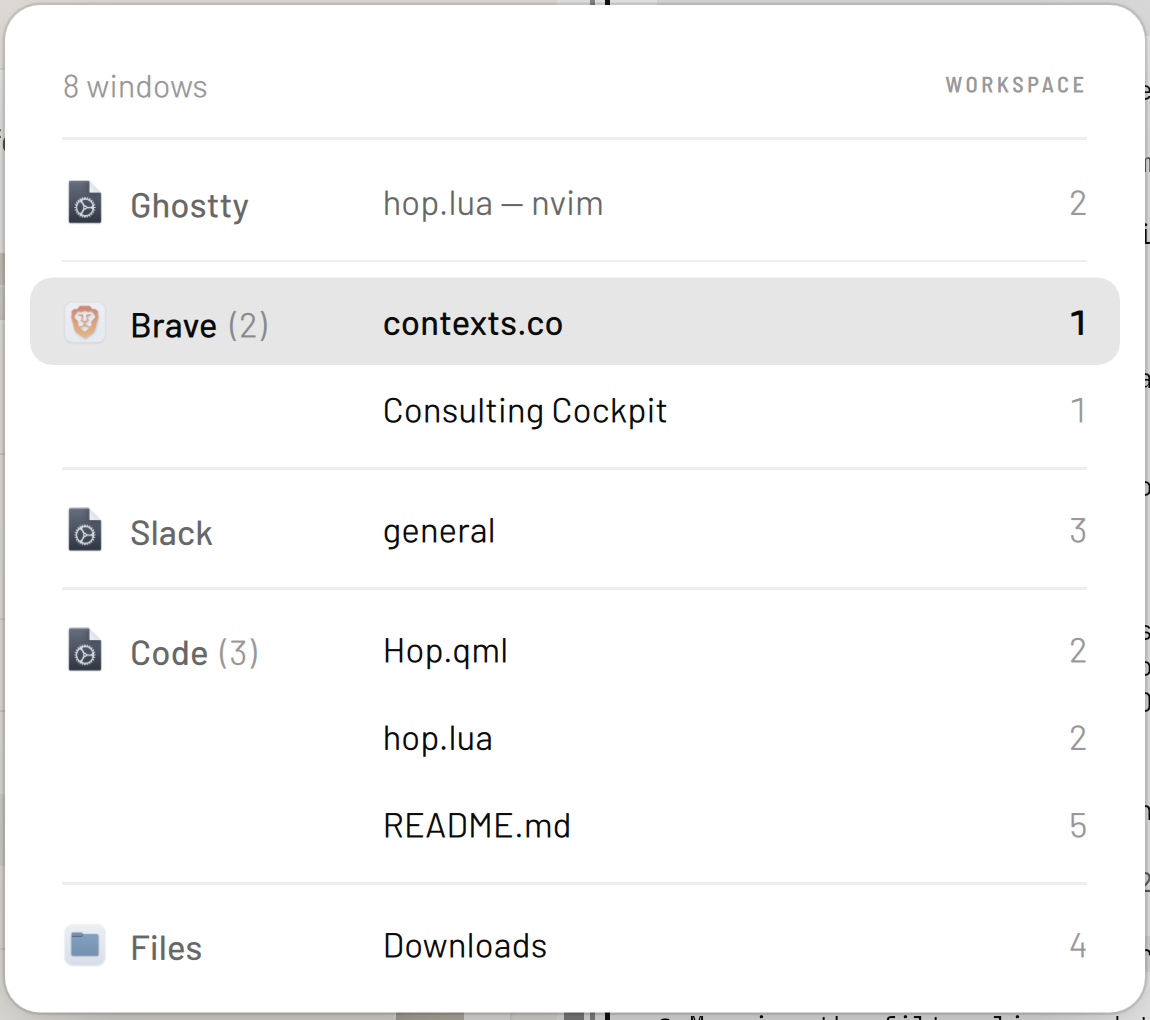
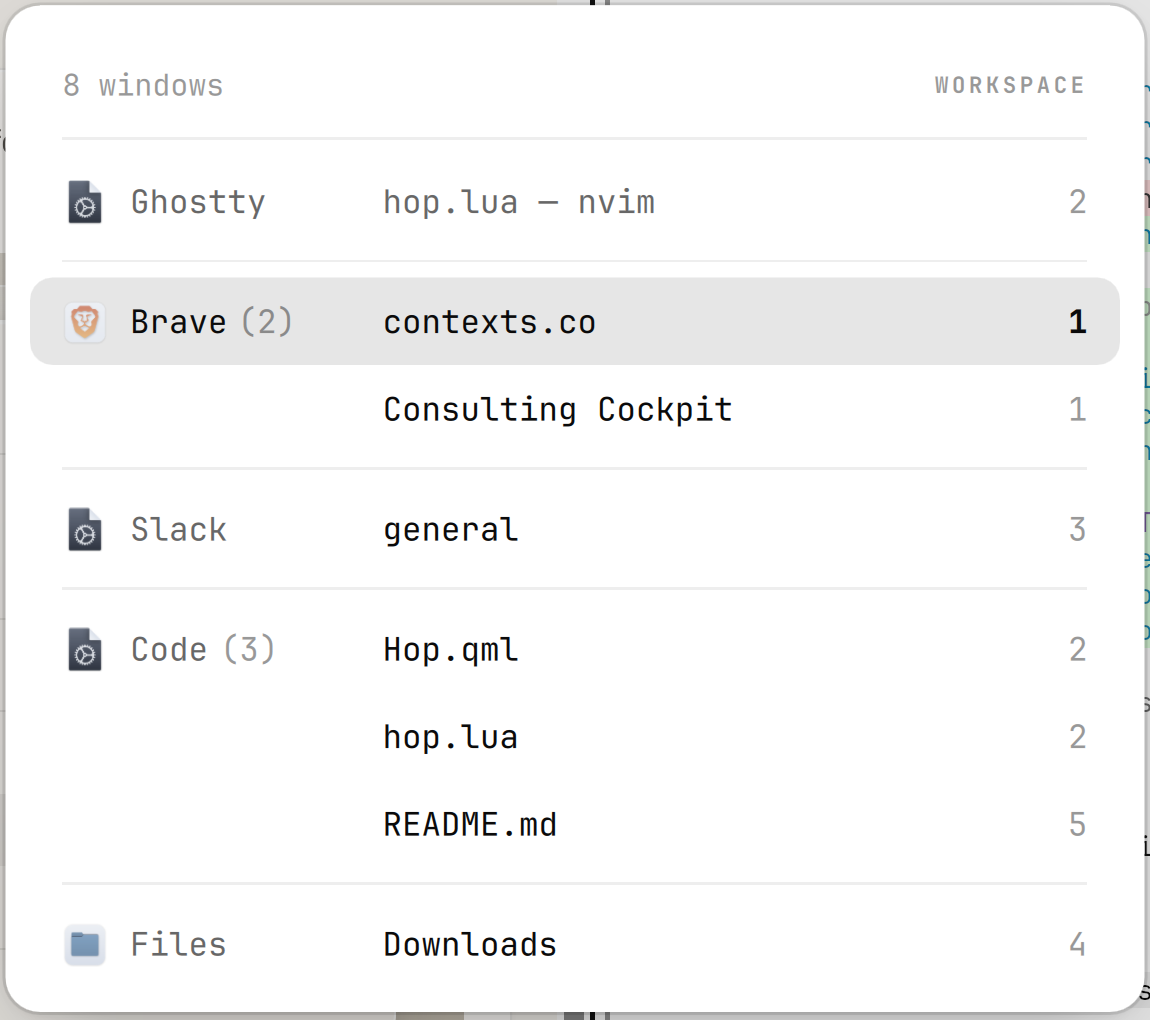
Hop: use the Omarchy system font
Type follows the font set with `omarchy font set`, like the bar and menus,
instead of Barlow. New preview.

diff --git a/Hop.qml b/Hop.qml
@@ -16,8 +16,7 @@
 // A quick Alt+Tab is committed before showDelay runs out, so the list is never
 // drawn for it and the flip feels instant.
 //
-// Colours come from the active Omarchy theme. Type is Gran's Barlow, which
-// falls back to the theme's menu font where Barlow is not installed.
+// Colours and type come from the active Omarchy theme and font.
 
 import Quickshell
 import Quickshell.Io
@@ -59,9 +58,11 @@ Item {
   readonly property color scrim: Util.alpha("#000000", lightTheme ? 0.10 : 0.28)
 
   // ---- type ----
-  readonly property string sans: "Barlow"
-  readonly property string label: "Barlow Semi Condensed"
-  readonly property int rowFont: Math.round(Style.font.body * 1.25)       // 15 at the default size
+  // The Omarchy system font, as set with `omarchy font set`, so Hop matches
+  // the bar and the menus.
+  readonly property string sans: Style.font.menuFamily
+  readonly property string label: Style.font.menuFamily
+  readonly property int rowFont: Math.round(Style.font.body * 1.17)       // 14 at the default size
   readonly property int labelFont: Math.max(9, Math.round(Style.font.caption * 0.95))
 
   // ---- measure ----
